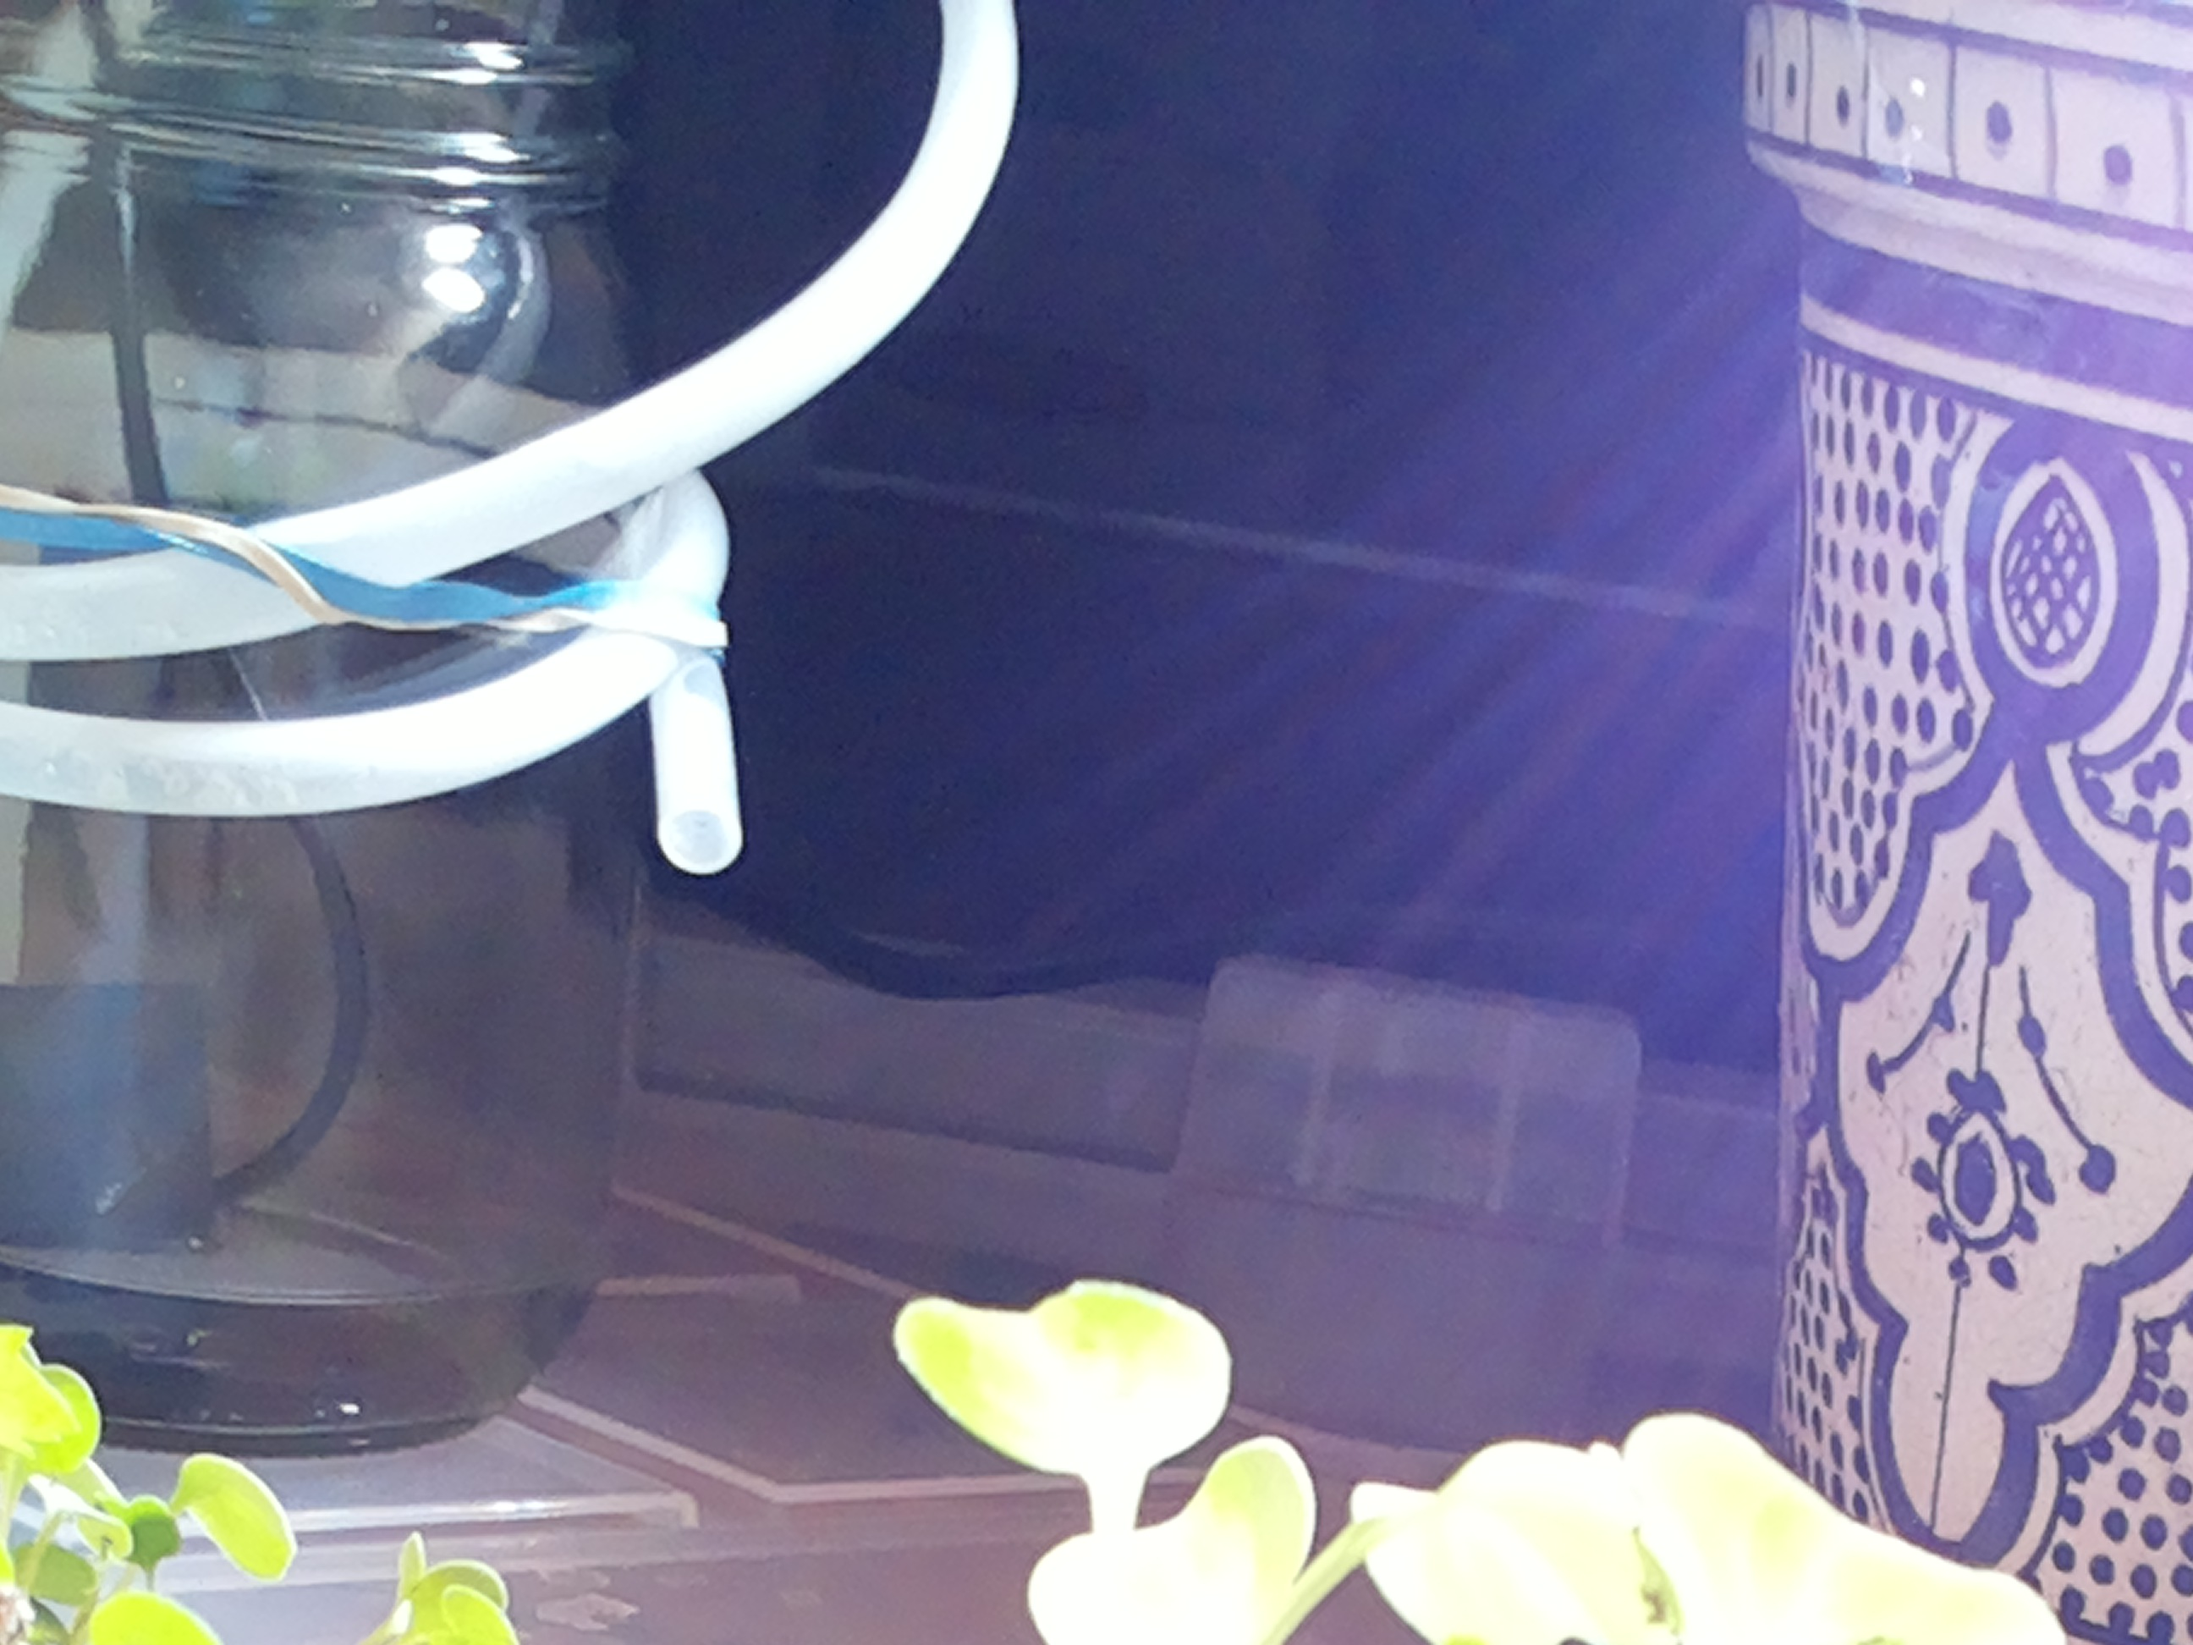
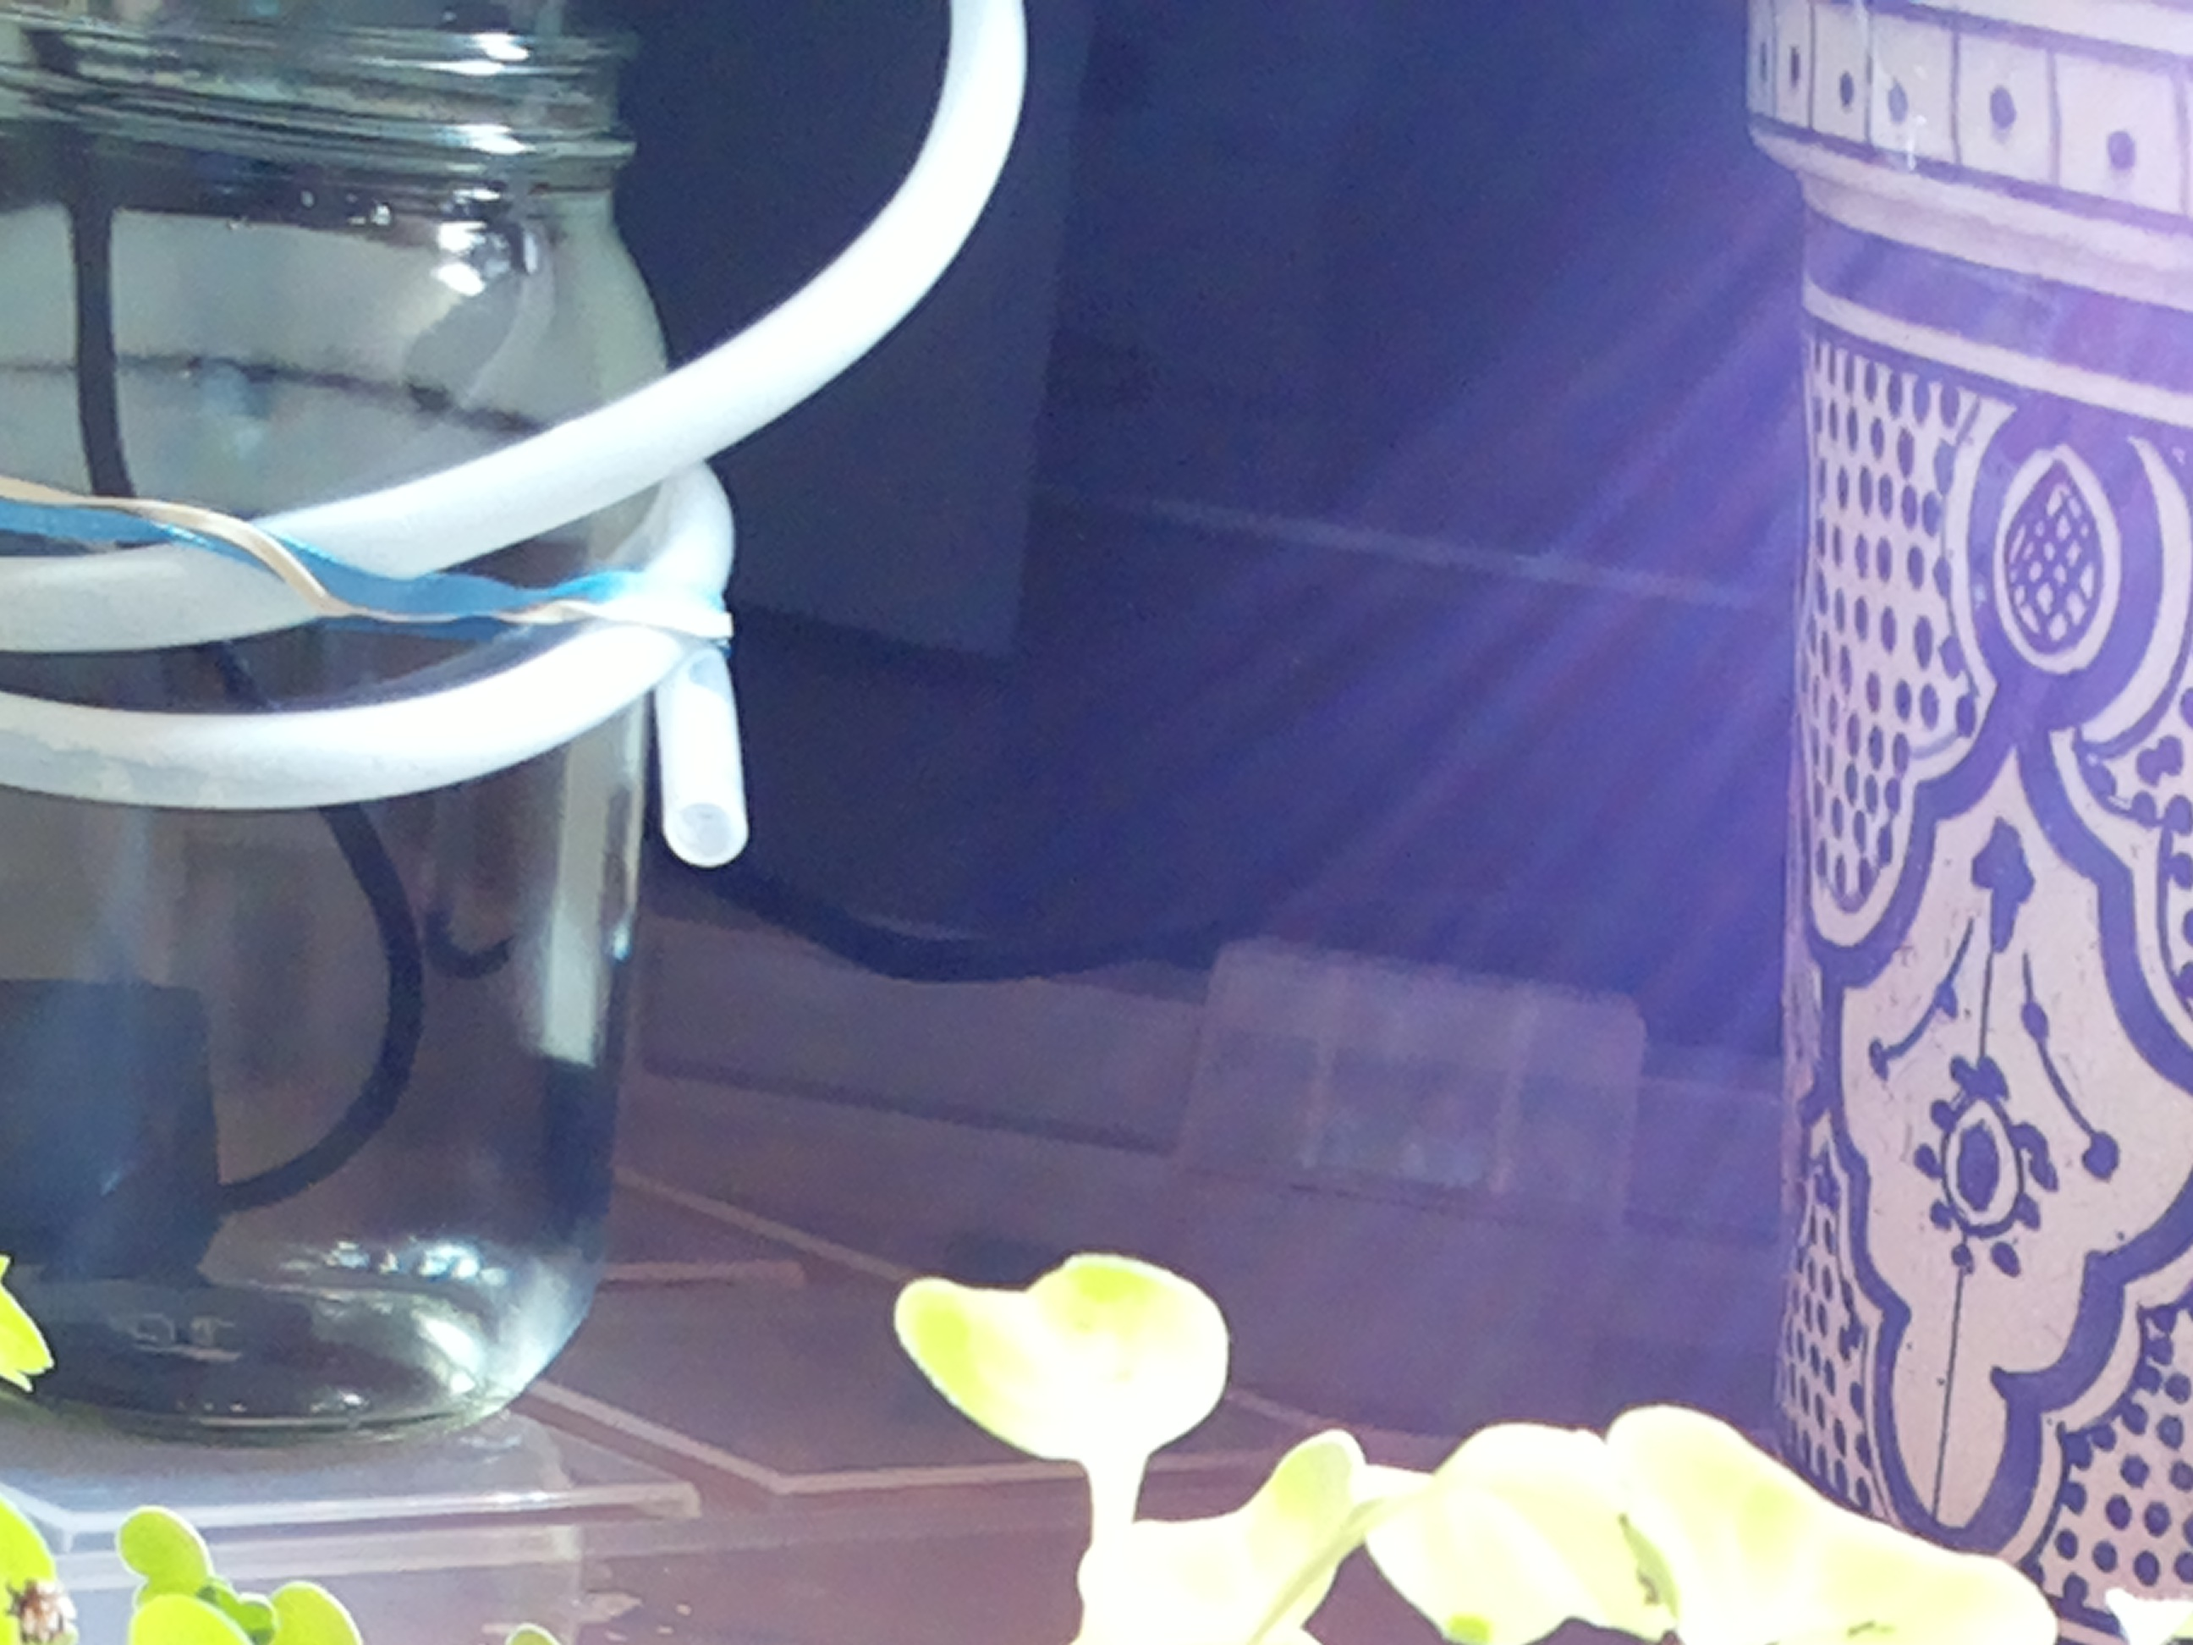
mirror sync 2026-09-13 07:20

diff --git a/JOURNAL.md b/JOURNAL.md
@@ -451,3 +451,11 @@
 - Lamp: on — correct for photoperiod.
 - Watering: 4s pulse per standing order 2 (8s of 60s daily cap used; water.py OK, pump plug verified OFF after).
 - No changes to standing orders. Next: 07:12 pulse unless surfaces look dark. Still pending: verify lamp-sync.sh fires in logs/cron.log after the next reboot.
+
+### 2026-09-13 07:12 — morning check-in (cron)
+- Photo: seedlings vigorous in all 12 cells (day 20) — tall, leggy, cotyledons broad, turgid, and green; true leaves growing; pink stems on several (brassica-like, normal); a few yellowing older cotyledons (normal). No wilting, mold, pests, or tipping. Tube outlet in place beside the jar pointing down over the lid (confirmed in zoom).
+- Jar: zoomed photo (strong sun flare) shows water still present — glass tinted with refraction through the lower body, waterline around the shoulder, pump cable submerged. Level looks somewhat lower than midweek but still well above the pump body. Keep watching the trend.
+- Soil: mixed — dark damp centers, drier crumbly spots; coir walls pale. Not uniformly dark → pulse warranted.
+- Lamp: on — correct for photoperiod.
+- Watering: 4s pulse per standing order 2 (4s of 60s daily cap used; water.py OK, pump plug verified OFF after).
+- No changes to standing orders. Next: 13:07 observe-only; 19:22 pulse unless surfaces look dark. Still pending: verify lamp-sync.sh fires in logs/cron.log after the next reboot.
